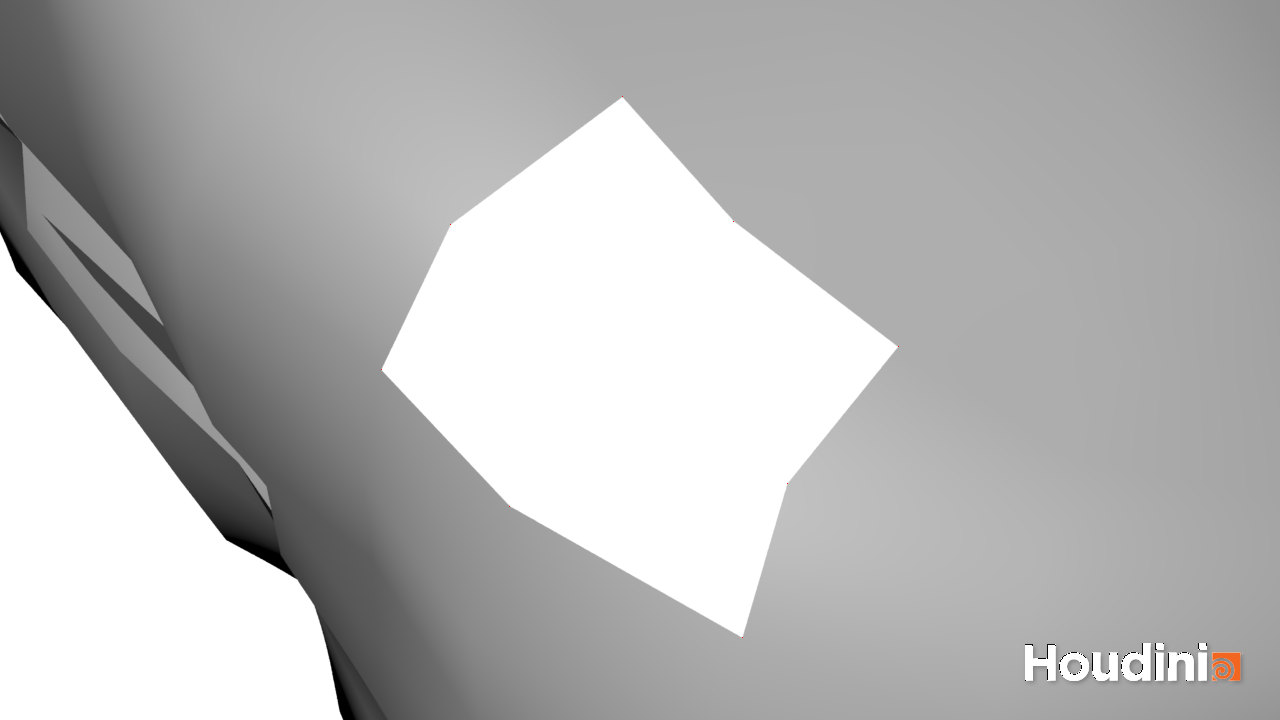
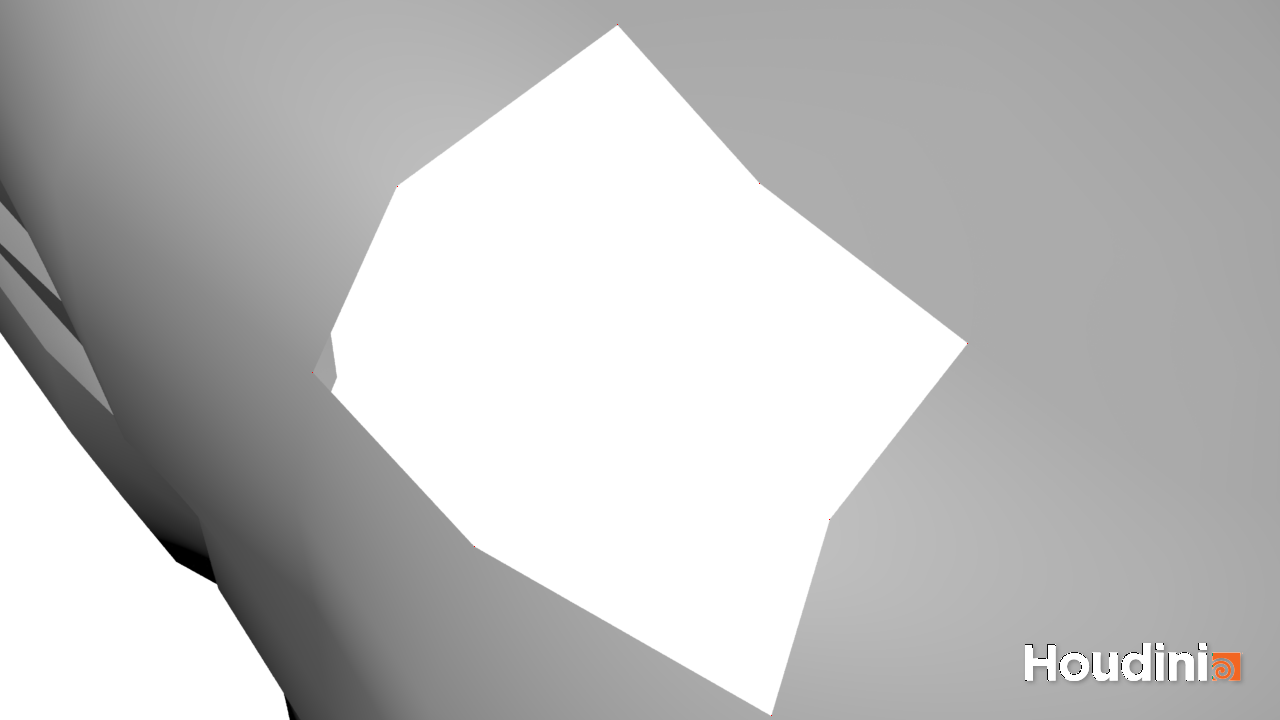
3d to 2d uses correct y coords (transposed)

Changed region(s): [[0.0, 0.0, 0.375, 1.0], [0.25, 0.0306, 0.75, 1.0]]

diff --git a/prepare_2d.py b/prepare_2d.py
@@ -26,13 +26,10 @@ if (cam and pix):
       cam_pos.append(cam_point)
       pix_pos.append(pix_point)
     while (os.path.isfile(path_name + "/opening_" + str(i) + ".png.mantra_checkpoint")):
-      time.sleep(1) # This image has not yet been rendered
+      time.sleep(1) # BUG: Still does not wait for image to be rendered
     image = Image.open(path_name + "/opening_" + str(i) + ".png")
-    # Pixel y coordinates are inversed. So we flip vertically the image, draw and flip back
-    image = image.transpose(PIL.Image.FLIP_TOP_BOTTOM)
     draw = ImageDraw.Draw(image)
     for j in range(len(points)):
       draw.point((int(pix_pos[j][0]), int(pix_pos[j][1])), "red")
-    image = image.transpose(PIL.Image.FLIP_TOP_BOTTOM)
     image.save(path_name + "/opening_" + str(i) + ".png")
     i += 1
